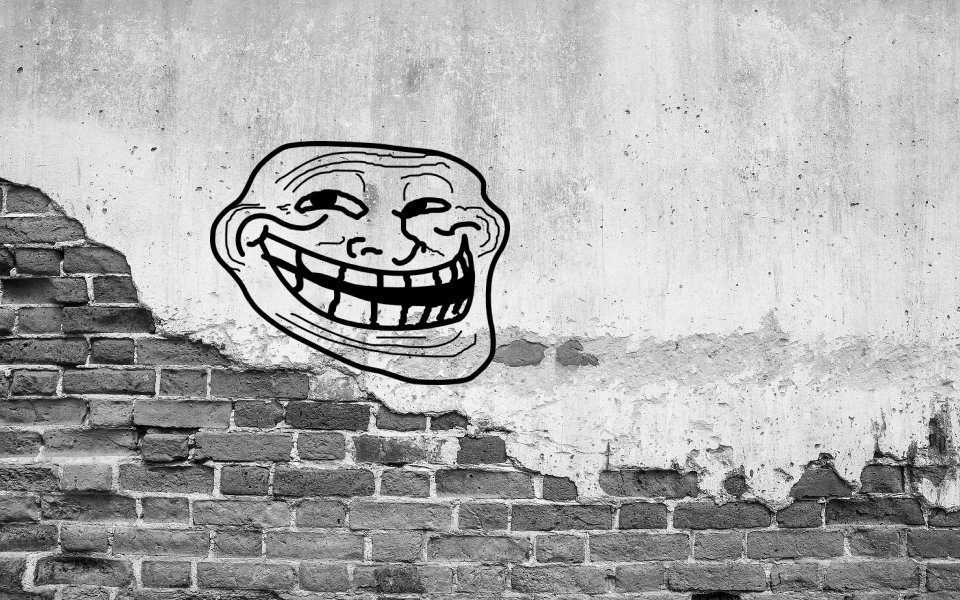
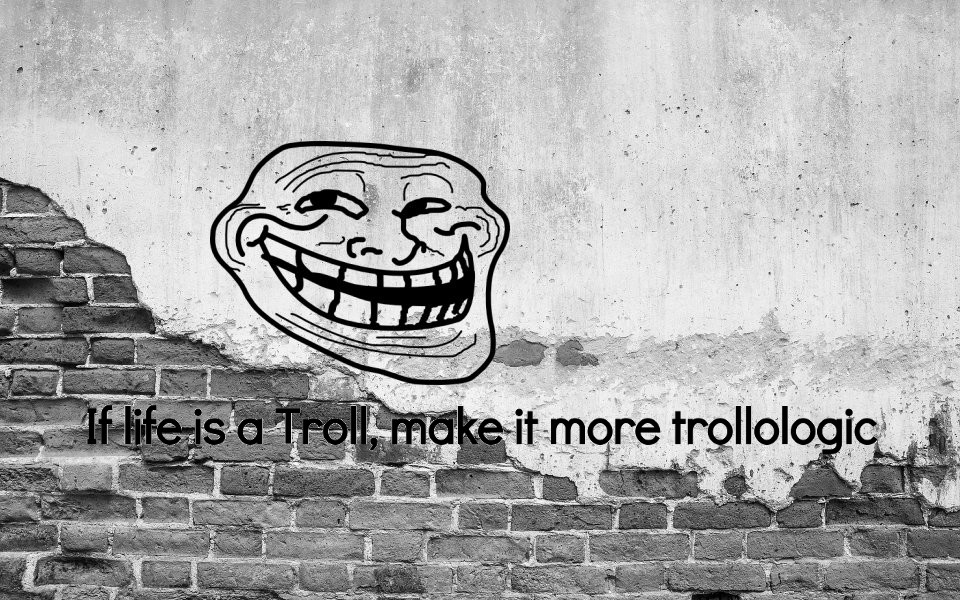
changed header image

Changed region(s): [[0.0938, 0.66, 0.9062, 0.78]]

diff --git a/index.html b/index.html
@@ -27,7 +27,7 @@ Released   : 20140330
 <div id="header-wrapper">
 	<div id="header" class="container">
 		<div id="logo">
-			<h1><a href="#">Trollologic</a></h1>
+			<h1>   </h1>
 		</div>
 		<div id="menu">
 			<ul>
@@ -43,7 +43,7 @@ Released   : 20140330
 	</div>
 	<div id="banner" class="container">
 		<div class="title">
-			<h2>Life is Troll, make it more trollologic</h2>
+			<h2>   </h2>
 			<!--<span class="byline">Donec pulvinar ullamcorper metus</span>-->
 		</div>
 		<ul class="actions">

diff --git a/default.css b/default.css
@@ -11,7 +11,7 @@
 		font-family: 'Didact Gothic', sans-serif;
 		font-size: 12pt;
 		font-weight: 200;
-		color: #FFF;
+		color: #000000;
 	}
 	
 	
@@ -266,7 +266,8 @@
 
 	.title
 	{
-		margin-bottom: 3em;
+		margin-bottom: 15em;
+		margin-top: 25em;
 	}
 	
 	.title h2
